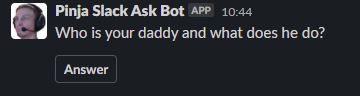
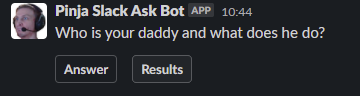
Add results-button and remove get answers-option

Changed region(s): [[0.3667, 0.6562, 0.5194, 0.7812], [0.3667, 0.8125, 0.55, 0.875], [0.3667, 0.5625, 0.55, 0.625]]

diff --git a/AzureFunctions/AskBotHandler.cs b/AzureFunctions/AskBotHandler.cs
@@ -94,23 +94,28 @@ namespace AzureFunctions
                     break;
                 case "open_questionnaire":
                     _logger.LogInformation("Questionnaire open request received from {channel} by {answerer}", blockAction.Channel.Name, blockAction.User.Username);
-                    var questionnaire = await _storage.GetQuestionnaire(actionToHandle.Value);
+                    var questionnaireId = actionToHandle.Value;
+                    var questionnaire = await _storage.GetQuestionnaire(questionnaireId);
 
                     ViewsOpenRequest questionnairePayload;
                     if (questionnaire is null)
                     {
-                        _logger.LogDebug("Error retrieving the questionnaire for callback id: {callbackId}.", actionToHandle.Value);
+                        _logger.LogDebug("Did not found questionnaire: {questionnaireId}.", questionnaireId);
                         questionnairePayload = blockAction.GetRemovedQuestionnaireViewPayload();
                     }
                     else
                     {
-                        var previousAnswers = await _storage.GetAnswers(actionToHandle.Value, blockAction.User.Username);
+                        var previousAnswers = await _storage.GetAnswers(questionnaireId, blockAction.User.Username);
                         var previousAnswer = previousAnswers.FirstOrDefault();
                         questionnairePayload = blockAction.GetOpenQuestionnaireViewPayload(questionnaire, previousAnswer?.Answer);
                     }
 
                     _logger.LogInformation("Opening slack model to answer the questionnaire.");
                     await _slackClient.OpenModelView(questionnairePayload);
+                    break;
+                case "get_answers":
+                    _logger.LogInformation("Sending answers to questionnaire: {questionnaireId}", actionToHandle.Value);
+                    await _control.GetQuestionnaireResult(actionToHandle.Value).ConfigureAwait(false);
                     break;
                 default:
                     throw new NotImplementedException($"Unknown blockAction callback id: {actionToHandle.ActionId}.");
@@ -129,7 +134,6 @@ namespace AzureFunctions
 
                     _logger.LogInformation("Opening slack model to create questionnaire.");
                     break;
-                case "get_answers":
                 case "delete_a_questionnaire":
                     _logger.LogInformation("Fetching questionnaires.");
                     var questionnaires = await _storage.GetQuestionnaires().ConfigureAwait(false);
@@ -212,12 +216,6 @@ namespace AzureFunctions
 
                     var answeredPayload = PayloadUtility.GetConfirmAnsweredPayload(answer);
                     return new JsonResult(answeredPayload);
-                case "get_answers":
-                    var selectedQuestionnaireId = viewSubmission.View.State.Values.First().Value.First().Value.SelectedOption.Value;
-                    _logger.LogInformation("Getting answers for questionnaire with ID: {questionnaire}.", selectedQuestionnaireId);
-                    var questionnaireResult = await _control.GetQuestionnaireResult(selectedQuestionnaireId).ConfigureAwait(false);
-                    var withAnswersPayload = PayloadUtility.GetUpdateModelWithAnswersPayload(questionnaireResult);
-                    return new JsonResult(withAnswersPayload);
                 case "delete_a_questionnaire":
                     var questionnaireId = viewSubmission.View.State.Values.First().Value.First().Value.SelectedOption.Value;
                     _logger.LogInformation("Deleting questionnaire with ID: {questionnaire}.", questionnaireId);

diff --git a/AskBotCore/PayloadUtility.cs b/AskBotCore/PayloadUtility.cs
@@ -1,4 +1,5 @@
 using System.Linq;
+using System.Text;
 using CloudLib.Models;
 using SlackLib.Messages;
 using SlackLib.Objects;
@@ -51,11 +52,33 @@ namespace AskBotCore
                                     type = "plain_text",
                                     text = "Answer"
                                 }
+                            },
+                            new
+                            {
+                                type = "button",
+                                action_id = "get_answers",
+                                value = questionnaire.QuestionnaireId,
+                                text = new
+                                {
+                                    type = "plain_text",
+                                    text = "Results"
+                                }
                             }
                         }
                     }
                 }
             };
+        }
+
+        public static string AnswersPostText(QuestionnaireResult result)
+        {
+            var builder = new StringBuilder();
+            builder.AppendLine("Current answers:");
+            foreach (var answer in result.Answers)
+            {
+                builder.AppendLine($"{answer.Key}: {answer.Value}");
+            }
+            return builder.ToString();
         }
 
         public static dynamic GetUpdateModelWithAnswersPayload(QuestionnaireResult questionnaireResult)

diff --git a/AskBotCore/AskBotControl.cs b/AskBotCore/AskBotControl.cs
@@ -41,6 +41,7 @@ namespace AskBotCore
             };
             ChatPostMessageResponse result = await _slackClient.PostMessage(preMessage).ConfigureAwait(false);
 
+            questionnaire.MessageTimestamp = result.Timestamp;
             await _storage.InsertOrMerge(questionnaire).ConfigureAwait(false);
             _logger.LogTrace("Questionnaire stored.");
 
@@ -86,6 +87,14 @@ namespace AskBotCore
                 Question = questionnaire.Question,
                 Answers = answersDictionary
             };
+
+            var preMessage = new ChatPostMessageRequest
+            {
+                Channel = questionnaire.Channel,
+                Text = PayloadUtility.AnswersPostText(questionnaireResult),
+                ThreadTimestamp = questionnaire.MessageTimestamp
+            };
+            await _slackClient.PostMessage(preMessage).ConfigureAwait(false);
 
             return questionnaireResult;
         }

diff --git a/CloudLib/Models/QuestionnaireEntity.cs b/CloudLib/Models/QuestionnaireEntity.cs
@@ -35,6 +35,11 @@ namespace CloudLib.Models
         public DateTime Created { get; set; }
         public string Question { get; set; }
 
+        /// <summary>
+        /// Message timestamp is used to send replies to the message thread
+        /// </summary>
+        public string MessageTimestamp { get; set; }
+
         private string _answerOptionsString;
         public string AnswerOptionsString
         {

diff --git a/SlackLib/Requests/ChatPostMessageRequest.cs b/SlackLib/Requests/ChatPostMessageRequest.cs
@@ -12,5 +12,8 @@ namespace SlackLib.Requests
 
         [JsonPropertyName("text")]
         public string Text { get; set; }
+
+        [JsonPropertyName("thread_ts")]
+        public string ThreadTimestamp { get; set; }
     }
 }

diff --git a/Documentation/HowToUse.md b/Documentation/HowToUse.md
@@ -53,11 +53,12 @@ The old answer is shown in answer dialog.
 
 ## Checking answers
 
-To show answers, select `Get answers` from the shortcut menu. This will show a
-dialog with all questionnaires and user can choose any questionnaire. After
-questionnaire is selected and `Submit` is pressed, dialog shows results.
+To show answers, click `Results` button from the questionnaire message. This
+will post questionnaire results as an answer to the questionnaire message. This
+creates a thread and further clicks will send new messages with current
+results.
 
-`Results` dialog doesn't show which user has answerred what option.
+The post doesn't show which user has answerred what option.
 
 ## Deleting questionnaires
 
